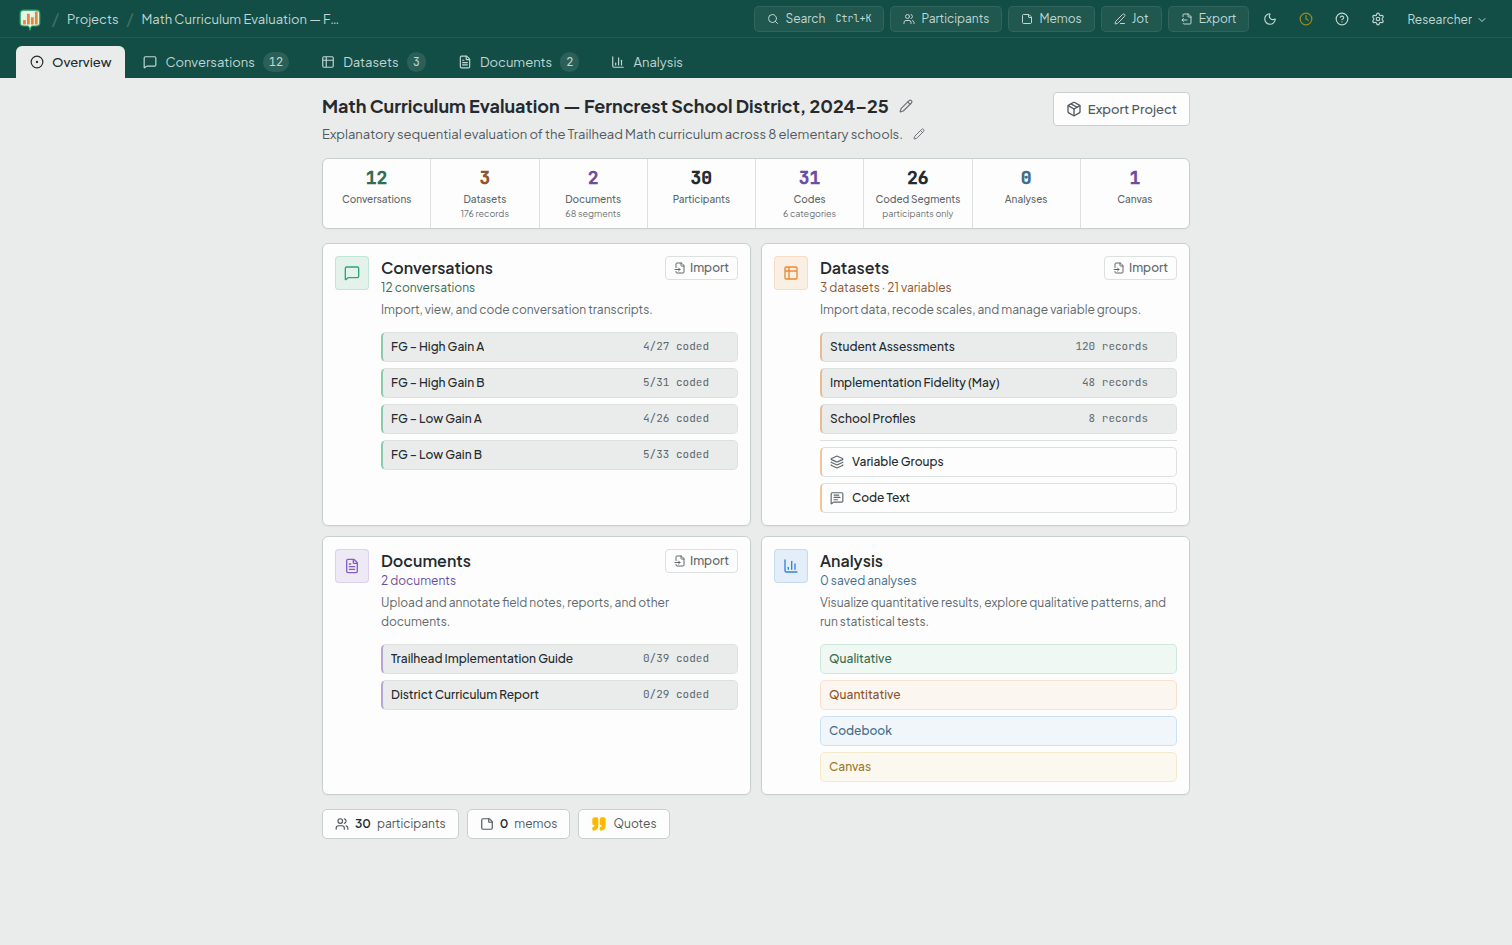
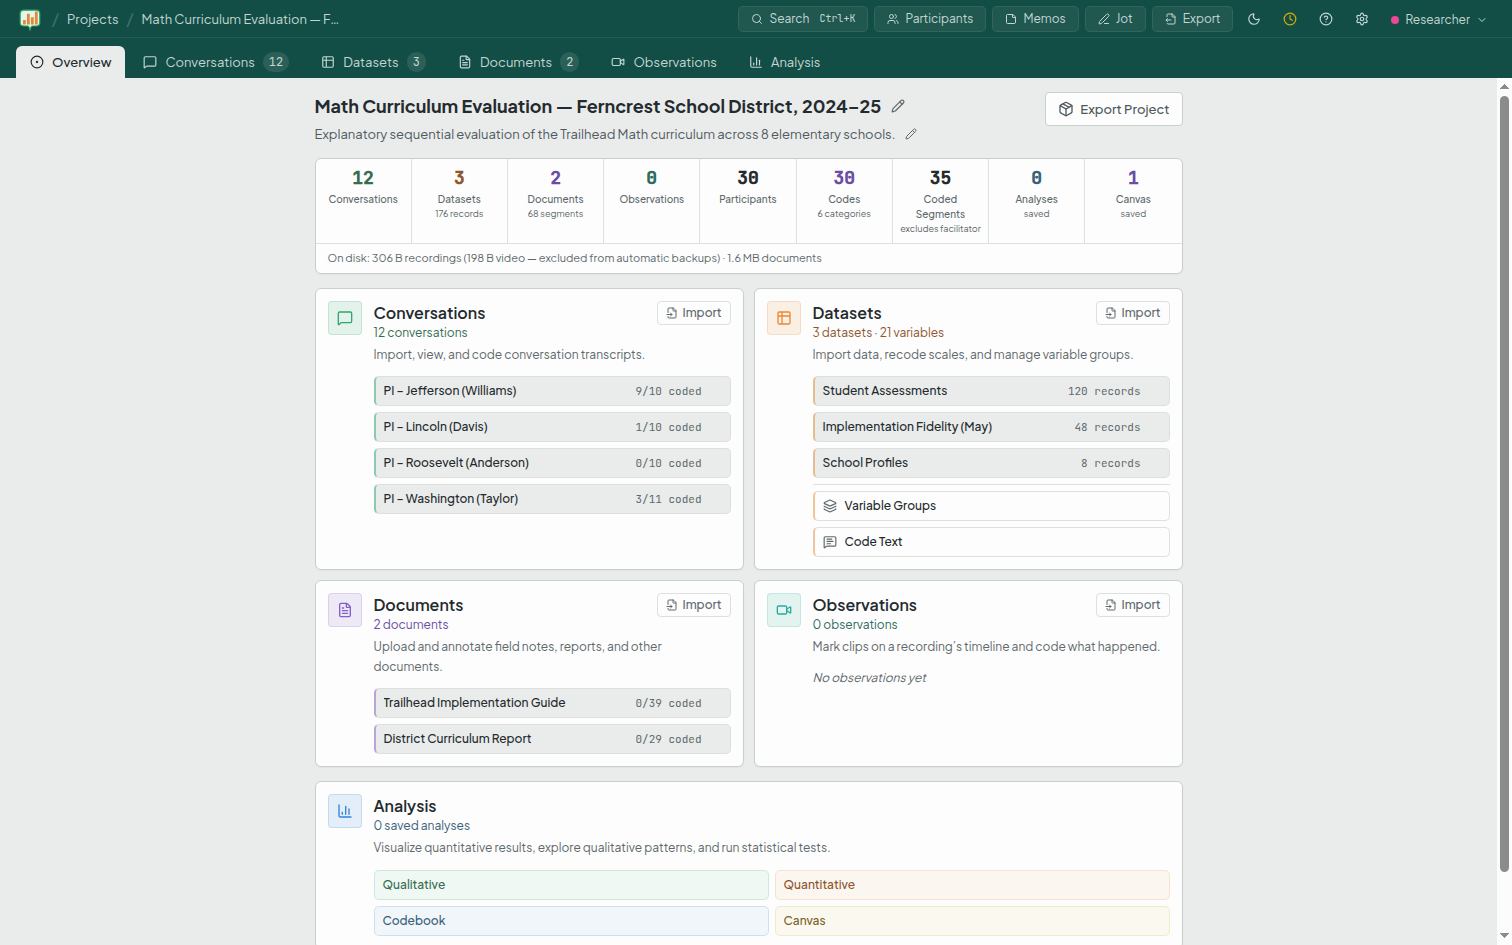
docs(readme): fix the install matrix, drop retired deps, and refresh every screenshot
Install said 'Windows or macOS' while we ship a Linux AppImage, and never said
Apple Silicon only — an Intel Mac user followed it to a dead end. Now a
three-platform table stating the requirement, minus the launch-era 'if Releases
looks empty' line.

Tech stack listed d3-force, retired with the codebook force-graph and absent
from package.json. Added pyreadstat, openpyxl and NumPy. Env vars now use the
MM_ forms that take precedence.

Screenshots predated video coding, SPSS import, Observations and the
accessibility work. All four re-taken on the current build, plus a fifth for
Observations. 06-canvas-spatial.png -> 06-canvas.png (writing mode carries the
integration narrative; spatial was sparse).

diff --git a/README.md b/README.md
@@ -12,13 +12,15 @@
 
 <table>
   <tr>
-    <td width="33%"><img src=".github/assets/02-coding-workbench.png" alt="Qualitative coding workbench"></td>
-    <td width="33%"><img src=".github/assets/03-dataset-grid.png" alt="Quantitative dataset grid"></td>
-    <td width="33%"><img src=".github/assets/06-canvas-spatial.png" alt="Integration canvas"></td>
+    <td width="25%"><img src=".github/assets/02-coding-workbench.png" alt="Qualitative coding workbench showing a coded focus-group transcript"></td>
+    <td width="25%"><img src=".github/assets/03-dataset-grid.png" alt="Quantitative dataset grid with typed columns"></td>
+    <td width="25%"><img src=".github/assets/04-observations.png" alt="Observation workbench: a recording coded as clips on its timeline"></td>
+    <td width="25%"><img src=".github/assets/06-canvas.png" alt="Integration canvas with themes written up as prose"></td>
   </tr>
   <tr>
     <td align="center"><sub><b>Qualitative coding</b></sub></td>
     <td align="center"><sub><b>Quantitative data</b></sub></td>
+    <td align="center"><sub><b>Observations</b></sub></td>
     <td align="center"><sub><b>Integration canvas</b></sub></td>
   </tr>
 </table>
@@ -46,11 +48,20 @@ to stay on their own machine.
 
 ## Install
 
-**Recommended:** download the latest signed installer for Windows or macOS from the
+**Recommended:** download the latest signed installer from the
 [Releases page](https://github.com/gfchavez28/mixedmeasures/releases/latest) and run
-it — no setup required. (Installers are attached to each `v1.0`+ release tag; if
-Releases looks empty during the initial launch, the first signed build is on the
-way.) Prefer to build it yourself? See [Running from source](#running-from-source).
+it — no setup required:
+
+| Platform | File |
+|----------|------|
+| **Windows** (x64) | `.exe` installer |
+| **macOS** — **Apple Silicon only** (M1 or later) | `.dmg` |
+| **Linux** (x86_64) | `.AppImage` — mark it executable, then run it |
+
+**Intel Macs are not supported.** Not sure which you have? Apple menu → *About This
+Mac*; the **Chip** line reads "Apple M1" (or M2/M3/M4) on a supported machine.
+
+Prefer to build it yourself? See [Running from source](#running-from-source).
 
 **First launch — a security prompt is expected.** The installers are signed (and
 notarized on macOS), so the verified publisher is **George Chavez**. Because Mixed
@@ -269,9 +280,9 @@ Being honest about scope:
 | UI | shadcn/ui + Tailwind CSS v4 |
 | Data fetching | TanStack Query |
 | Rich text | Tiptap |
-| Charts | Recharts + d3-force |
-| Statistics | SciPy + statsmodels (lazy-imported) |
-| Parsing | python-docx, pdfminer.six, tinytag (all permissive) |
+| Charts | Recharts |
+| Statistics | NumPy + SciPy + statsmodels (lazy-imported) |
+| Parsing | python-docx, pdfminer.six, tinytag, openpyxl, pyreadstat (all permissive) |
 
 ## Running from source
 
@@ -311,8 +322,11 @@ Common ones — see `backend/app/config.py` for the full list:
 | `MM_DATABASE_PATH` | `dev.db` | SQLite database file |
 | `MM_DATA_DIR` | `data` | Parent of `documents/` and `media/` |
 | `MM_BACKUP_DIR` | `backups` | Backup storage |
-| `INACTIVITY_TIMEOUT_MINUTES` | `0` (off) | Auto-logout on a shared machine (e.g. `30`) |
-| `COOKIE_SECURE` | `false` | Set `true` when serving over HTTPS |
+| `MM_INACTIVITY_TIMEOUT_MINUTES` | `0` (off) | Auto-logout on a shared machine (e.g. `30`) |
+| `MM_COOKIE_SECURE` | `false` | Set `true` when serving over HTTPS |
+
+The bare names (`INACTIVITY_TIMEOUT_MINUTES`, `COOKIE_SECURE`) are still accepted as
+aliases, but the `MM_`-prefixed form takes precedence when both are set.
 
 ## Tests
 
